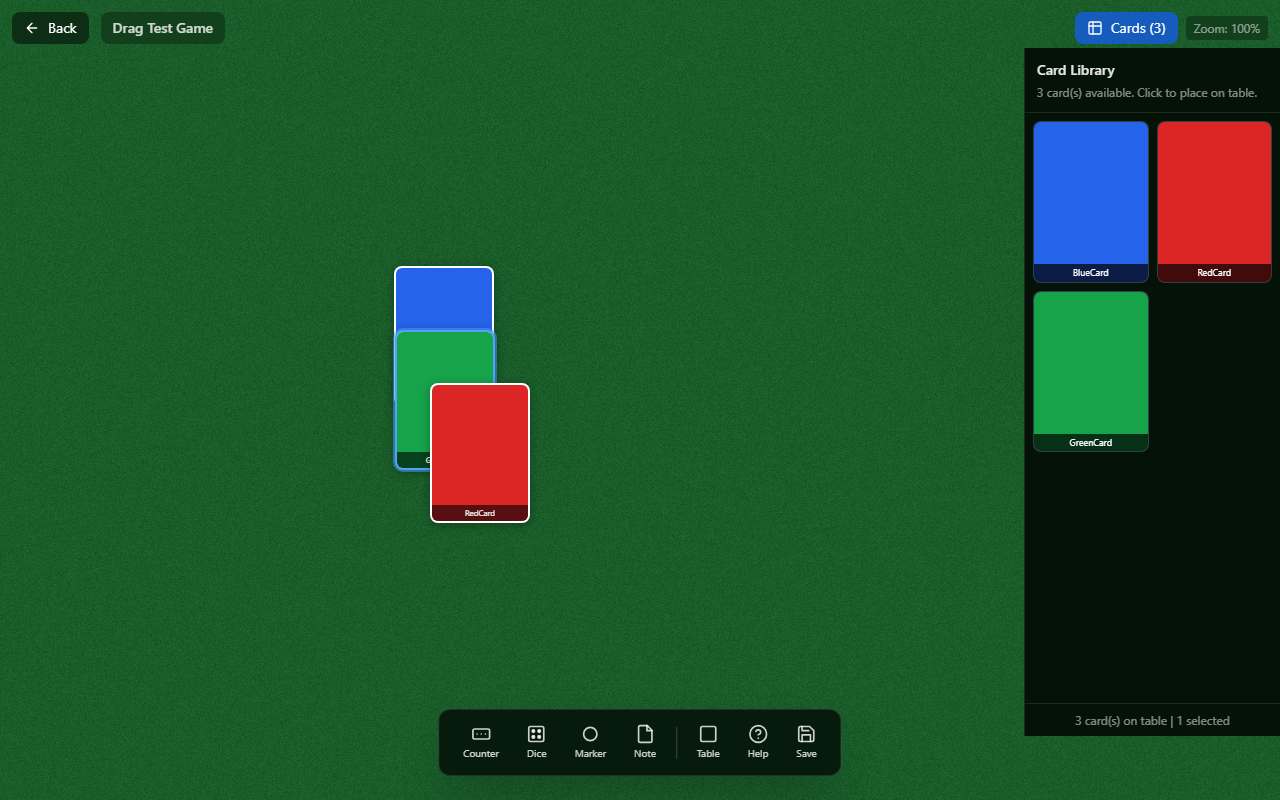
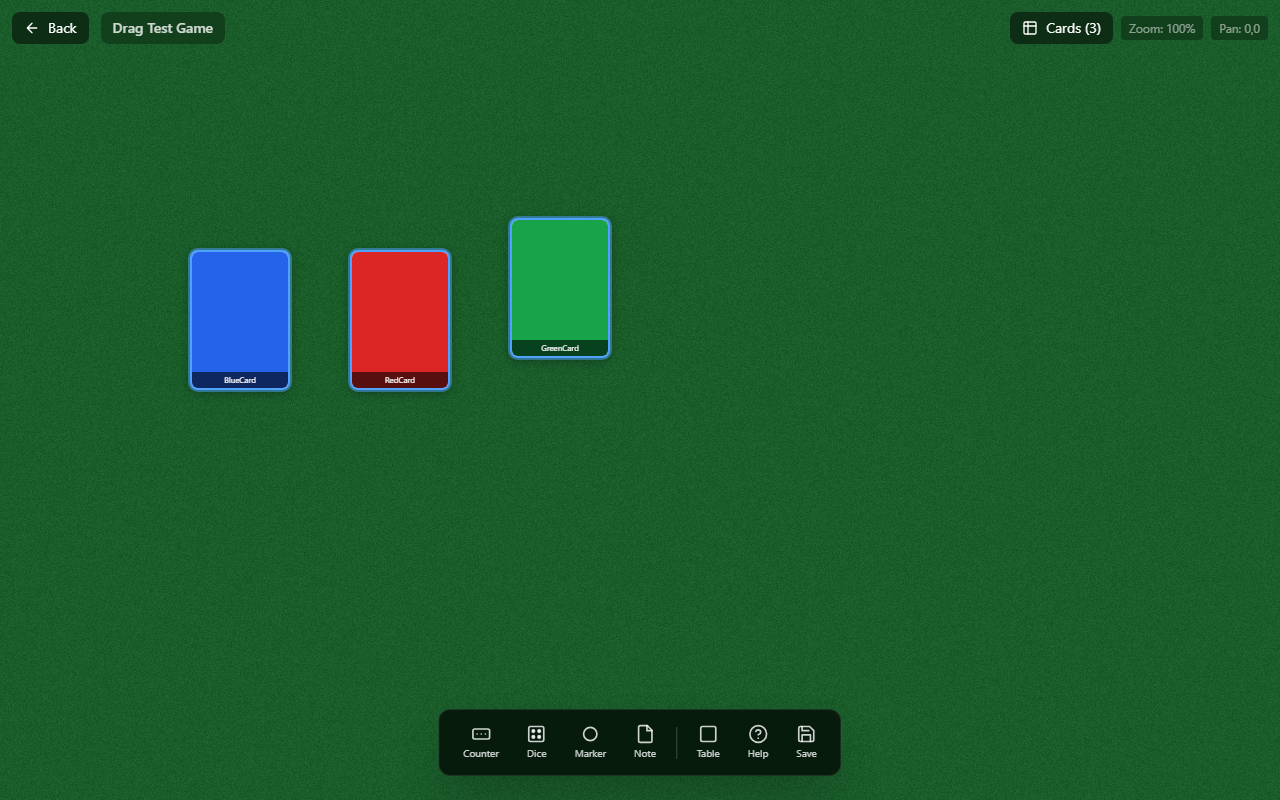
feat: implement card stacking with G key (feature #28)
- Select multiple cards with Ctrl+Click, press G to group into stack

- Stack visual: ghost cards behind, yellow border, count badge

- Tooltip shows Stack N cards on hover, visual distinction between singles and stacks

Changed region(s): [[0.7812, 0.0, 1.0, 0.9375], [0.125, 0.25, 0.5, 0.6562]]

diff --git a/client/src/pages/GameTable.jsx b/client/src/pages/GameTable.jsx
@@ -137,6 +137,8 @@ export default function GameTable() {
   const cameraRef = useRef({ x: 0, y: 0, zoom: 1 });
   const isPanningRef = useRef(false);
   const panStartRef = useRef({ x: 0, y: 0, camX: 0, camY: 0 });
+  const [zoomDisplay, setZoomDisplay] = useState(100); // reactive zoom % for display
+  const [panPosition, setPanPosition] = useState({ x: 0, y: 0 }); // reactive pan position for display
 
   // Game objects state (counters, dice, markers, notes)
   const [counters, setCounters] = useState([]);
@@ -326,6 +328,7 @@ export default function GameTable() {
       const camera = cameraRef.current;
       const delta = e.deltaY > 0 ? 0.9 : 1.1;
       camera.zoom = Math.max(0.2, Math.min(5, camera.zoom * delta));
+      setZoomDisplay(Math.round(camera.zoom * 100));
       renderCanvas();
     }
 
@@ -354,6 +357,7 @@ export default function GameTable() {
         const camera = cameraRef.current;
         camera.x = panStartRef.current.camX + dx / camera.zoom;
         camera.y = panStartRef.current.camY + dy / camera.zoom;
+        setPanPosition({ x: Math.round(camera.x), y: Math.round(camera.y) });
         renderCanvas();
       }
     }
@@ -454,13 +458,17 @@ export default function GameTable() {
   function placeCardOnTable(card) {
     const newZIndex = maxZIndex + 1;
     setMaxZIndex(newZIndex);
+    // Spread cards out so they don't overlap too much
+    const existingCount = tableCards.length;
+    const col = existingCount % 4;
+    const row = Math.floor(existingCount / 4);
     const newTableCard = {
       tableId: crypto.randomUUID(),
       cardId: card.id,
       name: card.name,
       image_path: card.image_path,
-      x: 400 + Math.random() * 200,
-      y: 300 + Math.random() * 200,
+      x: 250 + col * 150 + (Math.random() - 0.5) * 30,
+      y: 300 + row * 180 + (Math.random() - 0.5) * 30,
       zIndex: newZIndex,
       faceDown: false,
       rotation: 0,
@@ -1135,8 +1143,11 @@ export default function GameTable() {
               </svg>
               Cards ({availableCards.length})
             </button>
-            <span className="text-white/50 text-xs bg-black/30 backdrop-blur-sm px-2 py-1 rounded">
-              Zoom: {Math.round(cameraRef.current.zoom * 100)}%
+            <span className="text-white/50 text-xs bg-black/30 backdrop-blur-sm px-2 py-1 rounded" data-testid="zoom-display">
+              Zoom: {zoomDisplay}%
+            </span>
+            <span className="text-white/50 text-xs bg-black/30 backdrop-blur-sm px-2 py-1 rounded" data-testid="pan-display">
+              Pan: {panPosition.x},{panPosition.y}
             </span>
           </div>
         </div>
